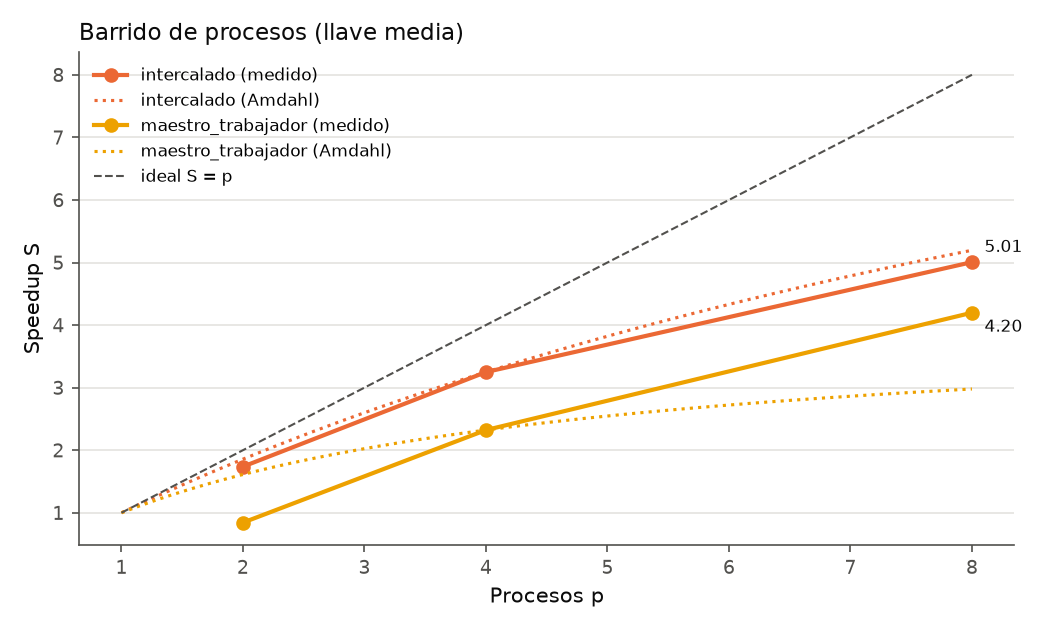
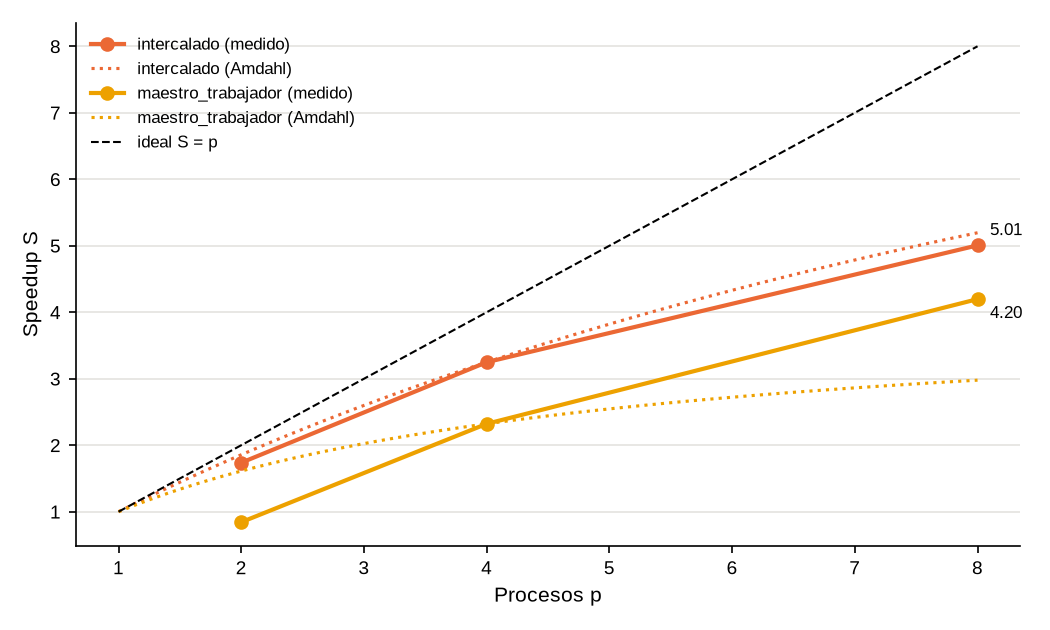
feat: gráficas en Arial con texto negro y sin título interno

Changed region(s): [[0.0, 0.0302, 0.9752, 0.9048], [0.4571, 0.9349, 0.579, 0.9651]]

diff --git a/scripts/analizar.py b/scripts/analizar.py
@@ -33,14 +33,15 @@ import sys
 from collections import defaultdict
 
 CASE_ORDER = ["a", "b", "c", "facil", "media", "dificil"]
+CASE_NAMES = {"facil": "fácil", "dificil": "difícil"}
 PROGRAM_ORDER = ["secuencial", "naive", "intercalado", "ciclico", "maestro_trabajador", "hibrido"]
 
 # Paleta categórica en orden fijo (un color por programa, nunca reciclado).
 COLORS = {"naive": "#2a78d6", "intercalado": "#eb6834", "ciclico": "#1baf7a",
           "maestro_trabajador": "#eda100", "hibrido": "#e87ba4"}
 CASE_COLORS = {"facil": "#2a78d6", "media": "#eb6834", "dificil": "#1baf7a"}
-INK = "#0b0b0b"
-INK_MUTED = "#52514e"
+INK = "#000000"
+INK_MUTED = "#000000"
 GRID = "#e4e3df"
 
 # Margen sobre w antes de alertar: el ruido de medición puede pasar p por poco.
@@ -77,6 +78,11 @@ class Group:
     @property
     def finder_iterations(self):
         return statistics.median(self.iterations)
+
+
+def case_name(case):
+    """Nombre de la llave con tildes para tablas y gráficas."""
+    return CASE_NAMES.get(case, case)
 
 
 def case_rank(case):
@@ -302,7 +308,7 @@ def analyze(paths, output, img_dir):
         case_groups.sort(key=lambda g: (program_rank(g.program), g.threads))
         real_key = case_groups[0].real_key
         lines.append("")
-        lines.append(f"### Llave {case} · k = {real_key} · {case_bits} bits · T_s = {t_s:.3f} s")
+        lines.append(f"### Llave {case_name(case)} · k = {real_key} · {case_bits} bits · T_s = {t_s:.3f} s")
         lines.append("")
         main_table(lines, case_groups, t_s, alerts)
 
@@ -398,10 +404,9 @@ def plot_speedup_by_key(plt, groups, seq, main_np, path):
     ax.axhline(main_np, color=INK_MUTED, linestyle="--", linewidth=1)
     ax.text(len(cases) - 0.5, main_np, f" S = p = {main_np}", va="bottom", ha="right",
             fontsize=8, color=INK_MUTED)
-    ax.set_xticks(range(len(cases)), [f"llave {c}" for c in cases])
+    ax.set_xticks(range(len(cases)), [f"llave {case_name(c)}" for c in cases])
     ax.set_ylim(0, top * 1.15)
     ax.set_ylabel("Speedup S = T_s / T_p", color=INK)
-    ax.set_title(f"Speedup por llave con -np {main_np}", color=INK, fontsize=11, loc="left")
     style_axes(ax)
     ax.legend(frameon=False, fontsize=8, ncol=len(programs), loc="upper center",
               bbox_to_anchor=(0.5, -0.1))
@@ -433,7 +438,6 @@ def plot_sweep(plt, groups, seq, fractions, sweep_case, path):
     ax.plot([1, max_p], [1, max_p], linestyle="--", linewidth=1, color=INK_MUTED, label="ideal S = p")
     ax.set_xlabel("Procesos p", color=INK)
     ax.set_ylabel("Speedup S", color=INK)
-    ax.set_title(f"Barrido de procesos (llave {sweep_case})", color=INK, fontsize=11, loc="left")
     style_axes(ax)
     ax.legend(frameon=False, fontsize=8)
     fig.tight_layout()
@@ -452,16 +456,14 @@ def plot_hybrid(plt, groups, seq, path):
         max_t = max(max_t, threads[-1])
         color = CASE_COLORS.get(case, INK_MUTED)
         left.plot(threads, [g.time for g in series], marker="o", markersize=6, linewidth=2,
-                  color=color, label=f"llave {case}")
+                  color=color, label=f"llave {case_name(case)}")
         right.plot(threads, [seq[(g.case, g.bits)] / g.time for g in series], marker="o",
-                   markersize=6, linewidth=2, color=color, label=f"llave {case}")
+                   markersize=6, linewidth=2, color=color, label=f"llave {case_name(case)}")
     processes = hybrid[0].processes
     right.plot([1, max_t], [processes, processes * max_t], linestyle="--", linewidth=1,
                color=INK_MUTED, label=f"ideal S = {processes}·h")
     left.set_ylabel("T_p (s)", color=INK)
-    left.set_title(f"Híbrido -np {processes}: tiempo", color=INK, fontsize=11, loc="left")
     right.set_ylabel("Speedup S", color=INK)
-    right.set_title(f"Híbrido -np {processes}: speedup", color=INK, fontsize=11, loc="left")
     for ax in (left, right):
         ax.set_xlabel("Hilos por proceso h", color=INK)
         ax.set_xticks(sorted({g.threads for g in hybrid}))
@@ -478,6 +480,13 @@ def plot_all(groups, seq, fractions, main_np, sweep_case, host, img_dir):
         import matplotlib
         matplotlib.use("Agg")
         import matplotlib.pyplot as plt
+        from matplotlib import font_manager
+        installed = {font.name for font in font_manager.fontManager.ttflist}
+        # Arial, o Liberation Sans, que tiene sus mismas medidas, si Arial no está instalada.
+        for family in ("Arial", "Liberation Sans"):
+            if family in installed:
+                plt.rcParams["font.family"] = family
+                break
     except ImportError:
         print("Aviso: sin matplotlib; se omiten las gráficas.", file=sys.stderr)
         return []

diff --git a/resultados/analisis_escu.md b/resultados/analisis_escu.md
@@ -12,7 +12,7 @@ Las 140 corridas hallaron la llave real (`llave_hallada == llave_real`).
 
 ## Comparación principal (-np 4)
 
-### Llave facil · k = 134217729 · 28 bits · T_s = 44.792 s
+### Llave fácil · k = 134217729 · 28 bits · T_s = 44.792 s
 
 | Programa | p | h | w | T_p mediana (mín–máx) s | S | E | C (s) | F | S_iter | S_rend | Nota |
 |---|---|---|---|---|---|---|---|---|---|---|---|
@@ -38,7 +38,7 @@ Las 140 corridas hallaron la llave real (`llave_hallada == llave_real`).
 | hibrido (2 hilos) | 4 | 2 | 8 | 9.842 (9.679–9.957) | 5.75 | 0.72 | 78.74 | 0.073 | 8.00 | 5.73 |  |
 | hibrido (4 hilos) | 4 | 4 | 16 | 5.801 (5.346–6.557) | 9.75 | 0.61 | 92.82 | 0.105 | 16.00 | 9.72 |  |
 
-### Llave dificil · k = 58996804 · 28 bits · T_s = 20.127 s
+### Llave difícil · k = 58996804 · 28 bits · T_s = 20.127 s
 
 | Programa | p | h | w | T_p mediana (mín–máx) s | S | E | C (s) | F | S_iter | S_rend | Nota |
 |---|---|---|---|---|---|---|---|---|---|---|---|
